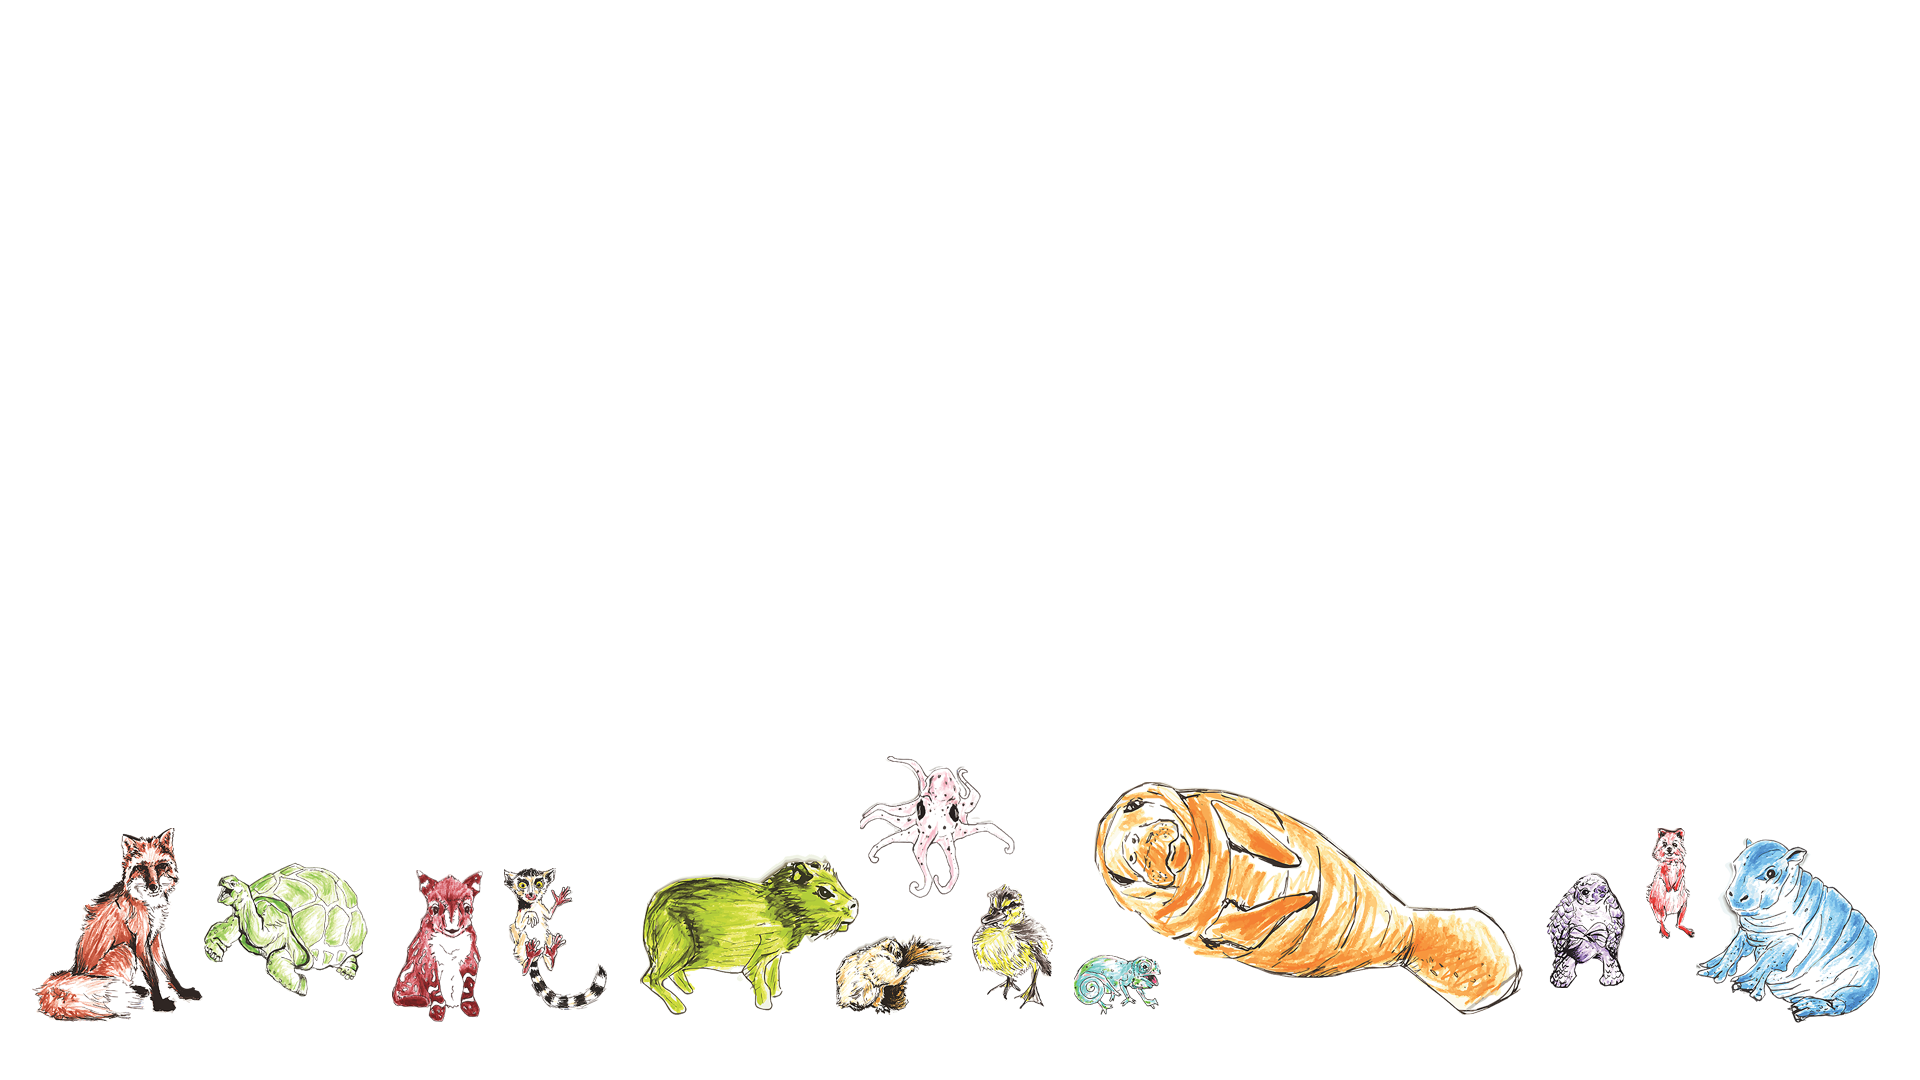
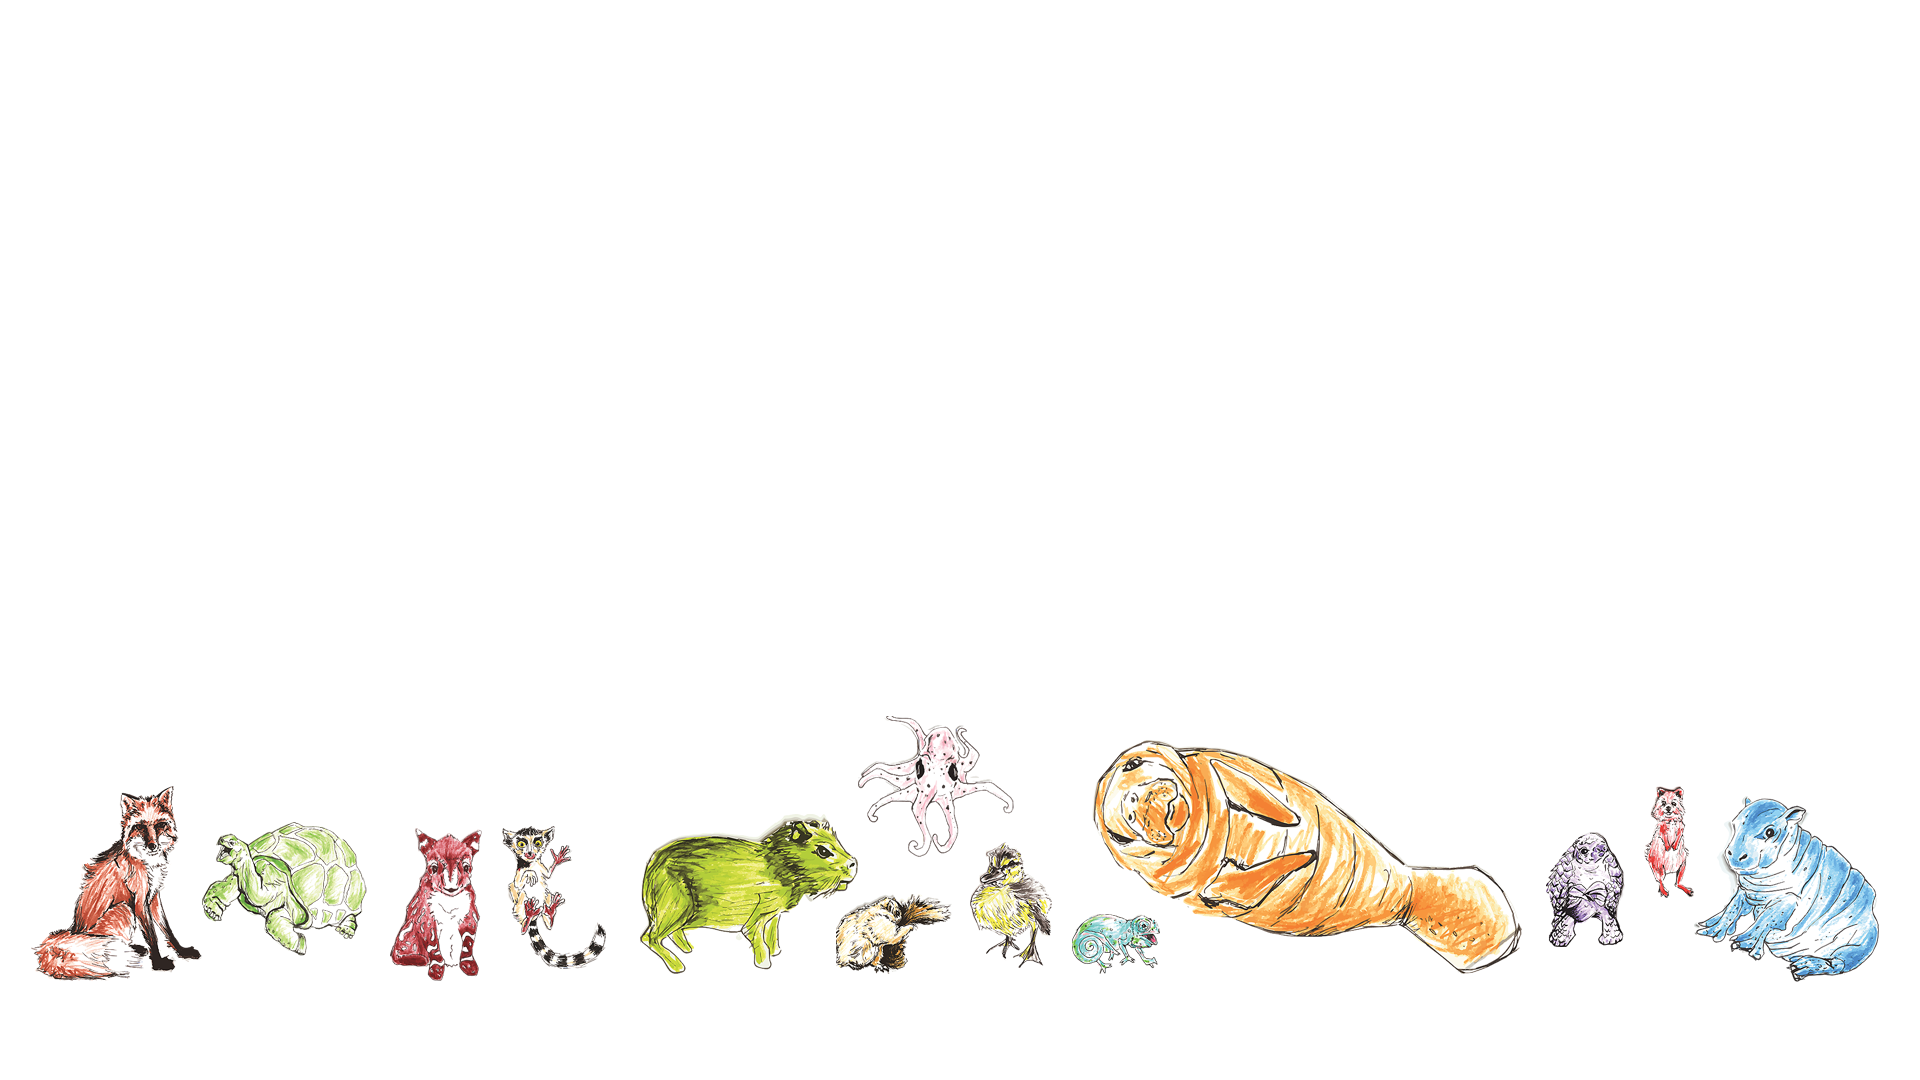
Updates

Changed region(s): [[0.0, 0.6722, 1.0, 0.9472]]

diff --git a/style.css b/style.css
@@ -35,6 +35,7 @@ a {
 figcaption p {
   font-size: 0.75rem;
   font-weight: 600;
+  padding: 1rem 0 0 0;
 }
 
 .main {
@@ -46,8 +47,8 @@ figcaption p {
 .foreverfox {
   position: absolute;
   width: 100%;
-  top: 50%;
-  transform: translateY(-50%);
+  top: 45%;
+  transform: translateY(-45%);
   padding-left: 50px;
 }
 
@@ -92,7 +93,7 @@ figcaption p {
 
 @media screen and (min-width: 1200px) {
   .main-page {
-    background-image: url(img/bg-fox.png);
+    background-image: url(img/bg-main.png);
   }
 
   .about-page {
@@ -137,6 +138,7 @@ figcaption p {
 .uppercase {
   text-transform: uppercase;
   font-size: 0.85rem;
+  padding: 0;
 }
 
 .footer, .footer-special {  
@@ -252,11 +254,10 @@ figcaption p {
 
 .project-detail {
   width: 60%;
-  float: right;
-  text-align: right;
+  padding-bottom: 1rem;
 }
 
-.project-detail, .project-preview {
+.project-preview {
   padding: 0 1rem;
   margin: 0;
 }
